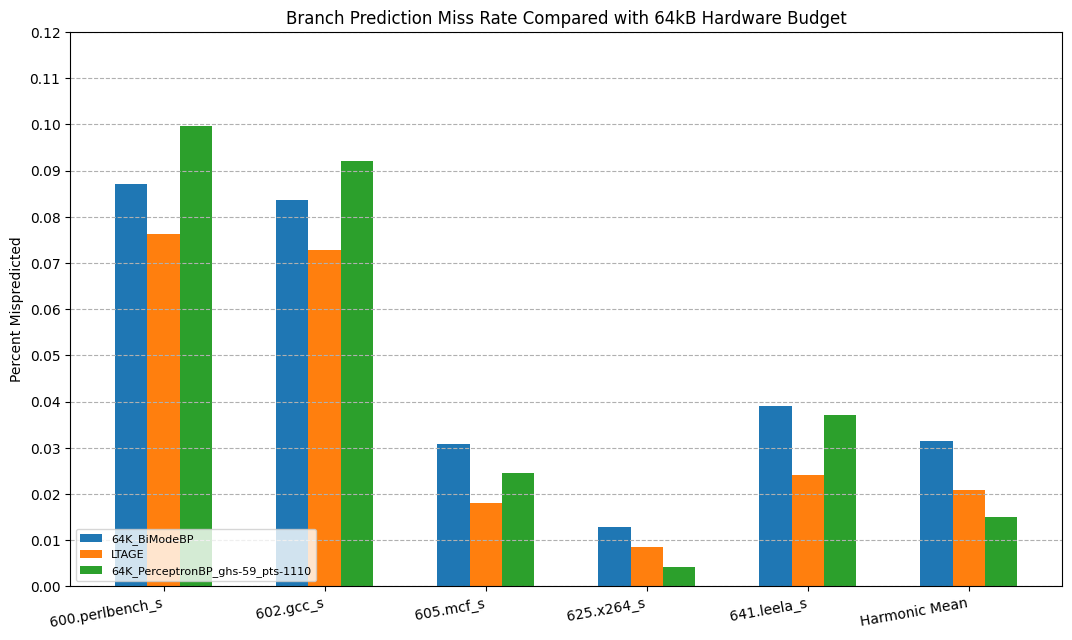
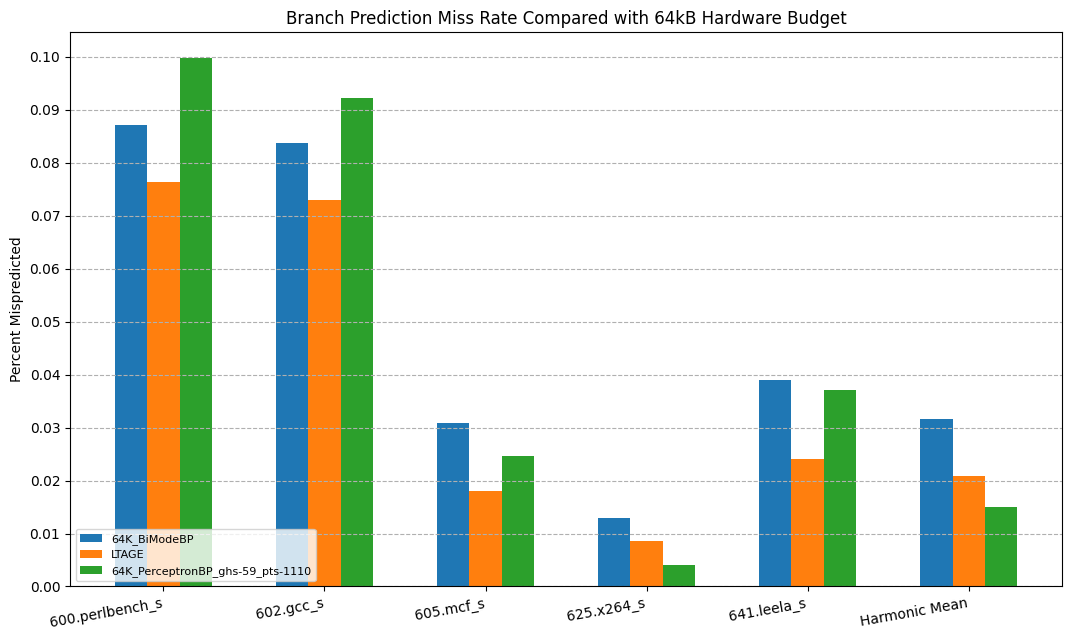
Clean up figures and plotting scripts. Also added 8bit vs 32bit perceptron weight experiment plotting script; results are as expected, no IPC or miss-rate difference. Maybe 4bits would be interesting

diff --git a/plots/line_chart.py b/plots/line_chart.py
@@ -72,22 +72,11 @@ width = min(0.2, 1/len(branch_categories))
 start_point = np.arange(len(benchmarks))
 
 
-def plot_stat(branch_categories, stat, title, ylabel, image_name, *args, **kwargs):
+def plot_stat(branch_categories, stat, title, xlabel, ylabel, image_name, *args, **kwargs):
     yticks = kwargs.get('yticks', None)
     harmonic_means_bi = [0] * len(branch_categories)
     harmonic_means_perc = [0] * len(branch_categories)
     plt.figure(figsize=(12.8, 7.2))
-
-    # for i, bc in enumerate(branch_categories):
-    #     print("bc = " + str(bc))
-    #     for j, bp in enumerate(bc):
-    #         info = df[bp == df['predictor']][stat]
-    #         if j = 0:
-    #             harmonic_means_bi[i] += 1/info.iloc[0]
-    #         else:
-    #             harmonic_means_perc[i] += 1/info.iloc[0]
-    #     harmonic_means_bi[i] = len(bc)/harmonic_means_bi[i]
-    #     harmonic_means_perc[i] = len(bc)/harmonic_means_perc[i]
 
     for i, bc in enumerate(branch_categories):
         for benchmark in benchmarks:
@@ -100,18 +89,19 @@ def plot_stat(branch_categories, stat, title, ylabel, image_name, *args, **kwarg
         harmonic_means_bi[i] = len(benchmarks) / harmonic_means_bi[i]
         harmonic_means_perc[i] = len(benchmarks) / harmonic_means_perc[i]
 
-    plt.plot(np.linspace(0, len(branch_categories)-1, len(branch_categories)), harmonic_means_bi, marker='o')
-    plt.plot(np.linspace(0, len(branch_categories)-1, len(branch_categories)), harmonic_means_perc, marker='*')
+    plt.plot(np.linspace(0, len(branch_categories)-1, len(branch_categories)), harmonic_means_bi, marker='o', label='BiModeBP')
+    plt.plot(np.linspace(0, len(branch_categories)-1, len(branch_categories)), harmonic_means_perc, marker='*', label='PerceptronBP')
     plt.xticks(range(len(cat_labels)), cat_labels)
-    plt.legend(loc='lower left', prop={'size': 8})
+    plt.legend(loc='lower left', frameon=False, fontsize='large')
     plt.title(title)
     if yticks is not None:
         plt.yticks(yticks)
         plt.grid(axis='y', linestyle='--')
-    plt.ylim(0, 6)
+    plt.ylim(0, 5)
+    plt.xlabel(xlabel)
     plt.ylabel(ylabel)
     plt.savefig("plots/figures/{image_name}".format(image_name=image_name), bbox_inches='tight')
     plt.clf()
 
 
-plot_stat(branch_categories, stat="missPercent", title="Compare Miss Rate (Lower is Better)", ylabel="Percent Mispredicted", image_name='Hardware_budget.png')
+plot_stat(branch_categories, stat="missPercent", title="Misprediction Rate vs. Hardware Budget for BiMode and Perceptron Branch Predictors", xlabel='Hardware Budget (kB)', ylabel="Percent Mispredicted", image_name='Hardware_budget.png')

diff --git a/plots/plotWeight.py b/plots/plotWeight.py
@@ -27,7 +27,11 @@ all_gem5_cpus = ['DerivO3CPU']
 
 benchmarks = ['600.perlbench_s', '602.gcc_s', '605.mcf_s', '625.x264_s', '641.leela_s']
 
-branch_predictors = ['4K_BiModeBP', 'LTAGE', '4K_PerceptronBP_ghs-28_pts-146']
+branch_predictors = ['64K_PerceptronBP_ghs-59_pts-1110', '64K_PerceptronBP_ghs-59_pts-1110_wgh-32']
+branch_labels = {
+    '64K_PerceptronBP_ghs-59_pts-1110': 'PerceptronBP 8bit Weights',
+    '64K_PerceptronBP_ghs-59_pts-1110_wgh-32': 'PerceptronBP 32bit Weights'
+}
 
 
 rows = []
@@ -66,7 +70,7 @@ def plot_stat(stat, title, ylabel, image_name, *args, **kwargs):
         info = df[bp == df['predictor']][stat]
         harmonic_mean = len(info) / np.sum(1 / info)
         info = pd.concat([info, pd.Series(harmonic_mean)])
-        plt.bar(start_point + i*width, info, width=width, label=bp)
+        plt.bar(start_point + i*width, info, width=width, label=branch_labels[bp])
 
     plt.xticks(start_point+(len(branch_predictors)//2)*width, benchmarks+['Harmonic Mean'], rotation=10, ha='right')
     plt.legend(loc='lower left', prop={'size': 8})
@@ -78,10 +82,8 @@ def plot_stat(stat, title, ylabel, image_name, *args, **kwargs):
     plt.savefig("plots/figures/{image_name}".format(image_name=image_name), bbox_inches='tight')
     plt.clf()
 
-plot_stat(stat="accuracy", title="Branch Prediction Accuracy Compared with 4kB Hardware Budget", ylabel="Accuracy (Percent Correctly Predicted)", image_name='4K_Compare_accuracy.png')
+plot_stat(stat="missRate", title="Branch Prediction Miss Rate vs. Weight Bits", ylabel="Percent Mispredicted", image_name='Weight_Compare_missrate.png', yticks=np.arange(0, 0.14, 0.01))
 
-plot_stat(stat="missRate", title="Branch Prediction Miss Rate Compared with 4kB Hardware Budget", ylabel="Percent Mispredicted", image_name='4K_Compare_missrate.png', yticks=np.arange(0, 0.14, 0.01))
-
-plot_stat(stat="ipc", title="Branch Prediction IPC Compared with 4kB Hardware Budget", ylabel="IPC", image_name='4K_Compare_ipc.png', yticks=np.arange(0, 1.7, 0.2))
+plot_stat(stat="ipc", title="Branch Prediction IPC vs. Weight Bits", ylabel="IPC", image_name='Weight_Compare_ipc.png', yticks=np.arange(0, 1.7, 0.2))
 
 

diff --git a/plots/plot64k.py b/plots/plot64k.py
@@ -80,8 +80,8 @@ def plot_stat(stat, title, ylabel, image_name, *args, **kwargs):
 
 plot_stat(stat="accuracy", title="Branch Prediction Accuracy Compared with 64kB Hardware Budget", ylabel="Accuracy (Percent Correctly Predicted)", image_name='64K_Compare_accuracy.png')
 
-plot_stat(stat="missRate", title="Branch Prediction Miss Rate Compared with 64kB Hardware Budget", ylabel="Percent Mispredicted", image_name='64K_Compare_missrate.png', yticks=np.arange(0, 0.13, 0.01))
+plot_stat(stat="missRate", title="Branch Prediction Miss Rate Compared with 64kB Hardware Budget", ylabel="Percent Mispredicted", image_name='64K_Compare_missrate.png', yticks=np.arange(0, 0.11, 0.01))
 
-plot_stat(stat="ipc", title="Branch Prediction IPC Compared with 64kB Hardware Budget", ylabel="IPC", image_name='64K_Compare_ipc.png')
+plot_stat(stat="ipc", title="Branch Prediction IPC Compared with 64kB Hardware Budget", ylabel="IPC", image_name='64K_Compare_ipc.png', yticks=np.arange(0, 1.7, 0.2))
 
 
